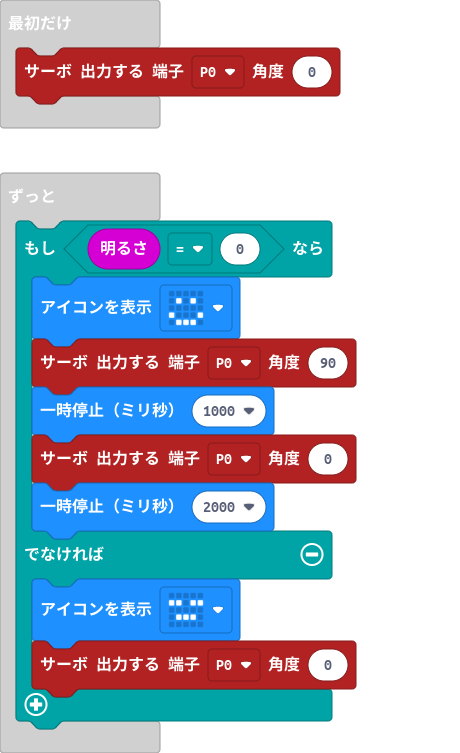
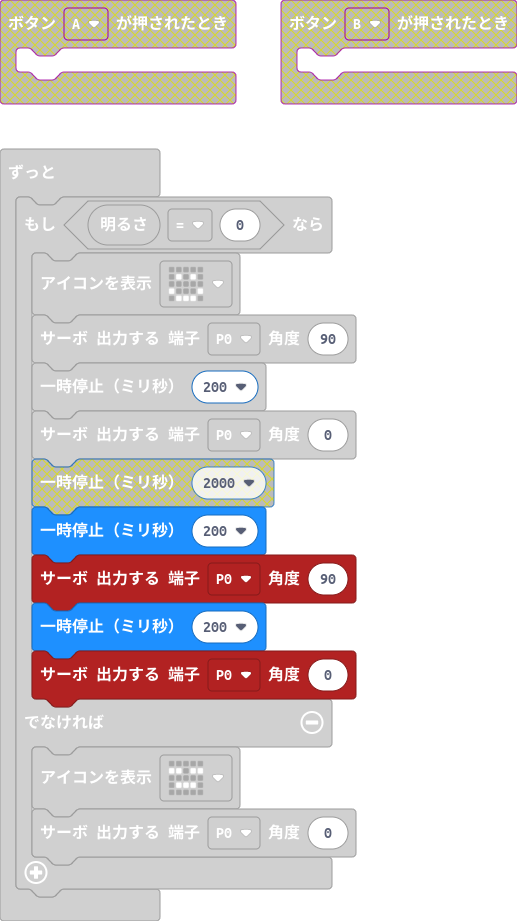
更新 main.blocks, main.ts

diff --git a/main.ts b/main.ts
@@ -1,17 +1,14 @@
-input.onButtonPressed(Button.A, function () {
-	
-})
-input.onButtonPressed(Button.B, function () {
-	
-})
 pins.servoWritePin(AnalogPin.P0, 0)
 basic.forever(function () {
     if (input.lightLevel() == 0) {
         basic.showIcon(IconNames.Happy)
         pins.servoWritePin(AnalogPin.P0, 90)
-        basic.pause(1000)
+        basic.pause(200)
         pins.servoWritePin(AnalogPin.P0, 0)
-        basic.pause(2000)
+        basic.pause(200)
+        pins.servoWritePin(AnalogPin.P0, 90)
+        basic.pause(200)
+        pins.servoWritePin(AnalogPin.P0, 0)
     } else {
         basic.showIcon(IconNames.Asleep)
         pins.servoWritePin(AnalogPin.P0, 0)
